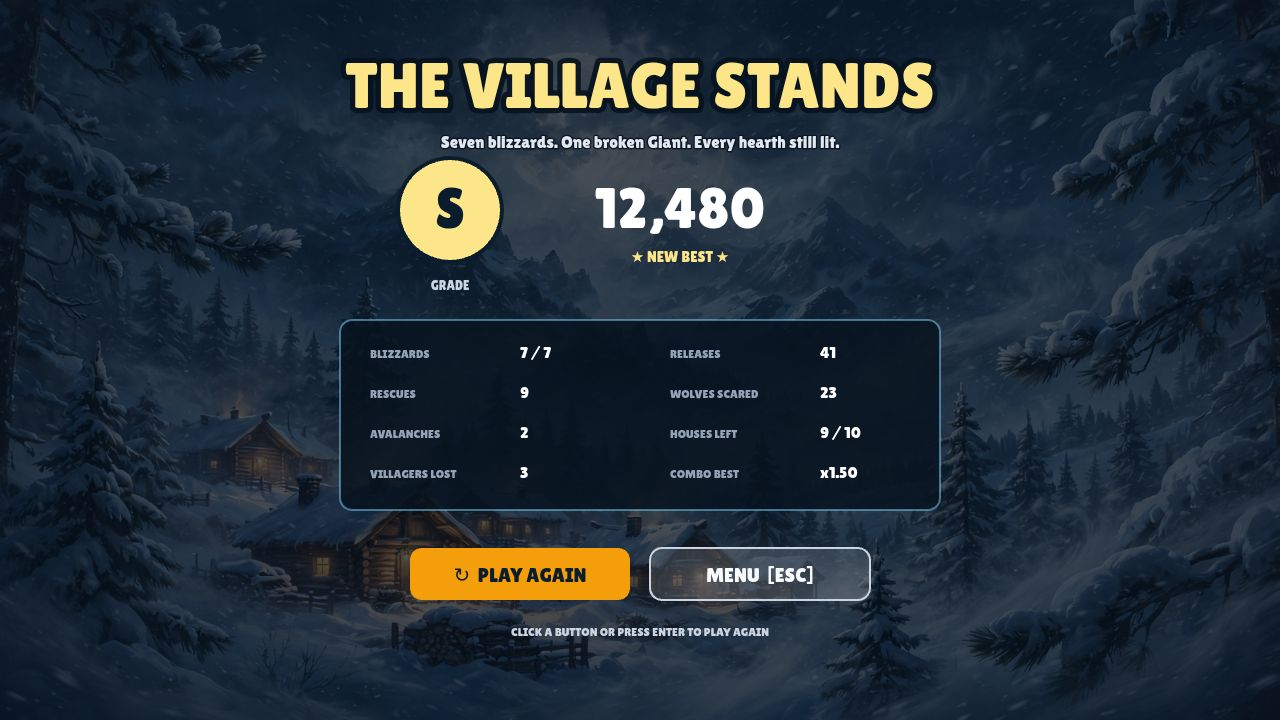
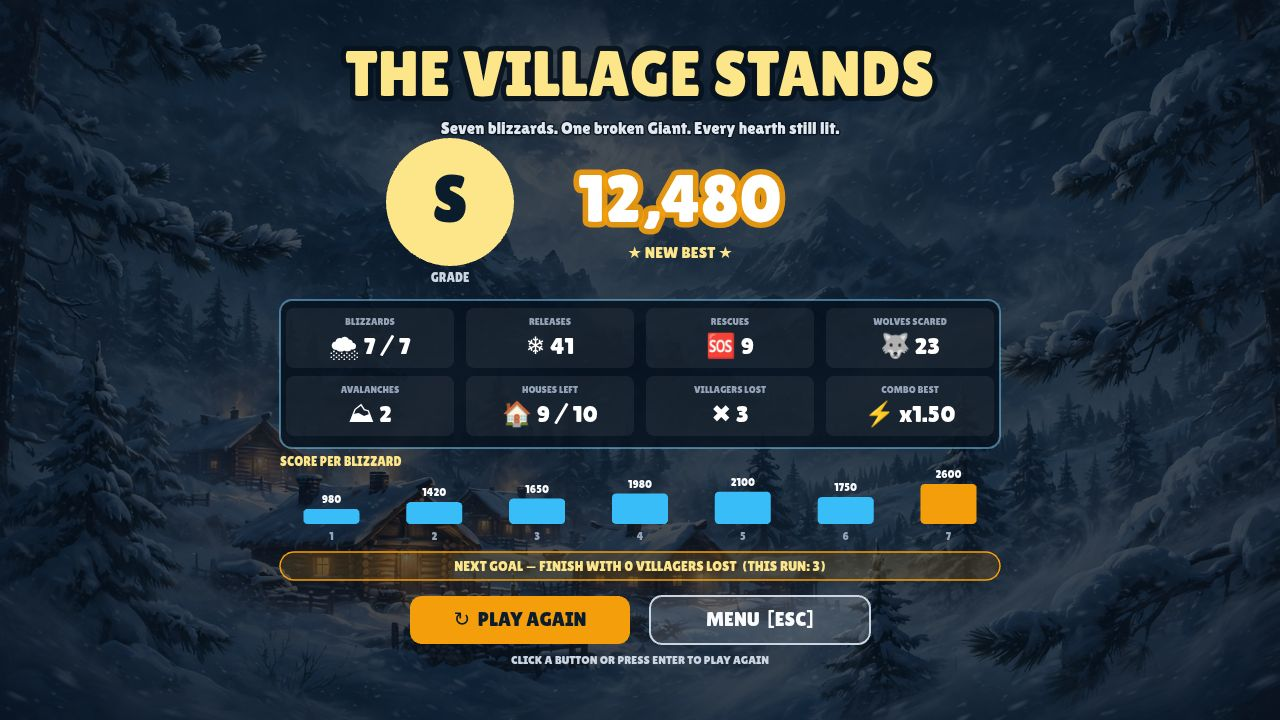
shots: re-capture polished screens; sheet order now mid-play first
- 01-midplay.jpg (was 02): blizzard-7 payoff frame, big +68 RELEASE +
  COMBO x1.25 stacked clear of slope labels, +50 RESCUED clear.
- 02-cover-title.jpg (was 01): title second, matching top-3 sheet order.
- 03-draft.jpg, 04-results.jpg re-captured with new art.
All 4 JPEG 1280x720, each <= 256 KiB.

Changed region(s): [[0.2188, 0.0611, 0.7812, 0.9472], [0.625, 0.5194, 0.6562, 0.55]]

diff --git a/game/src/shots.js b/game/src/shots.js
@@ -142,8 +142,8 @@ export function stageShot(name, world) {
   }
   world.floats.push({ x: 480, y: 220, text: '+68 RELEASE', color: '#fde68a', life: 0.9, maxLife: 1.1, size: 34 });
   world.floats.push({ x: 900, y: 300, text: '+40', color: '#fef3c7', life: 0.8, maxLife: 1.1 });
-  world.floats.push({ x: 640, y: 180, text: 'COMBO x1.25', color: '#fde68a', life: 1.0, maxLife: 1.1, size: 24 });
-  world.floats.push({ x: 760, y: 520, text: '+50 RESCUED', color: '#86efac', life: 0.7, maxLife: 1.1 });
+  world.floats.push({ x: 480, y: 290, text: 'COMBO x1.25', color: '#fde68a', life: 1.0, maxLife: 1.1, size: 24 });
+  world.floats.push({ x: 780, y: 565, text: '+50 RESCUED', color: '#86efac', life: 0.7, maxLife: 1.1 });
   world.banner = 'BLIZZARD 7 — THE WHITE GIANT WAKES · PUSH THE EYE BACK';
   world.bannerTimer = 2.5;
   world.log = [
